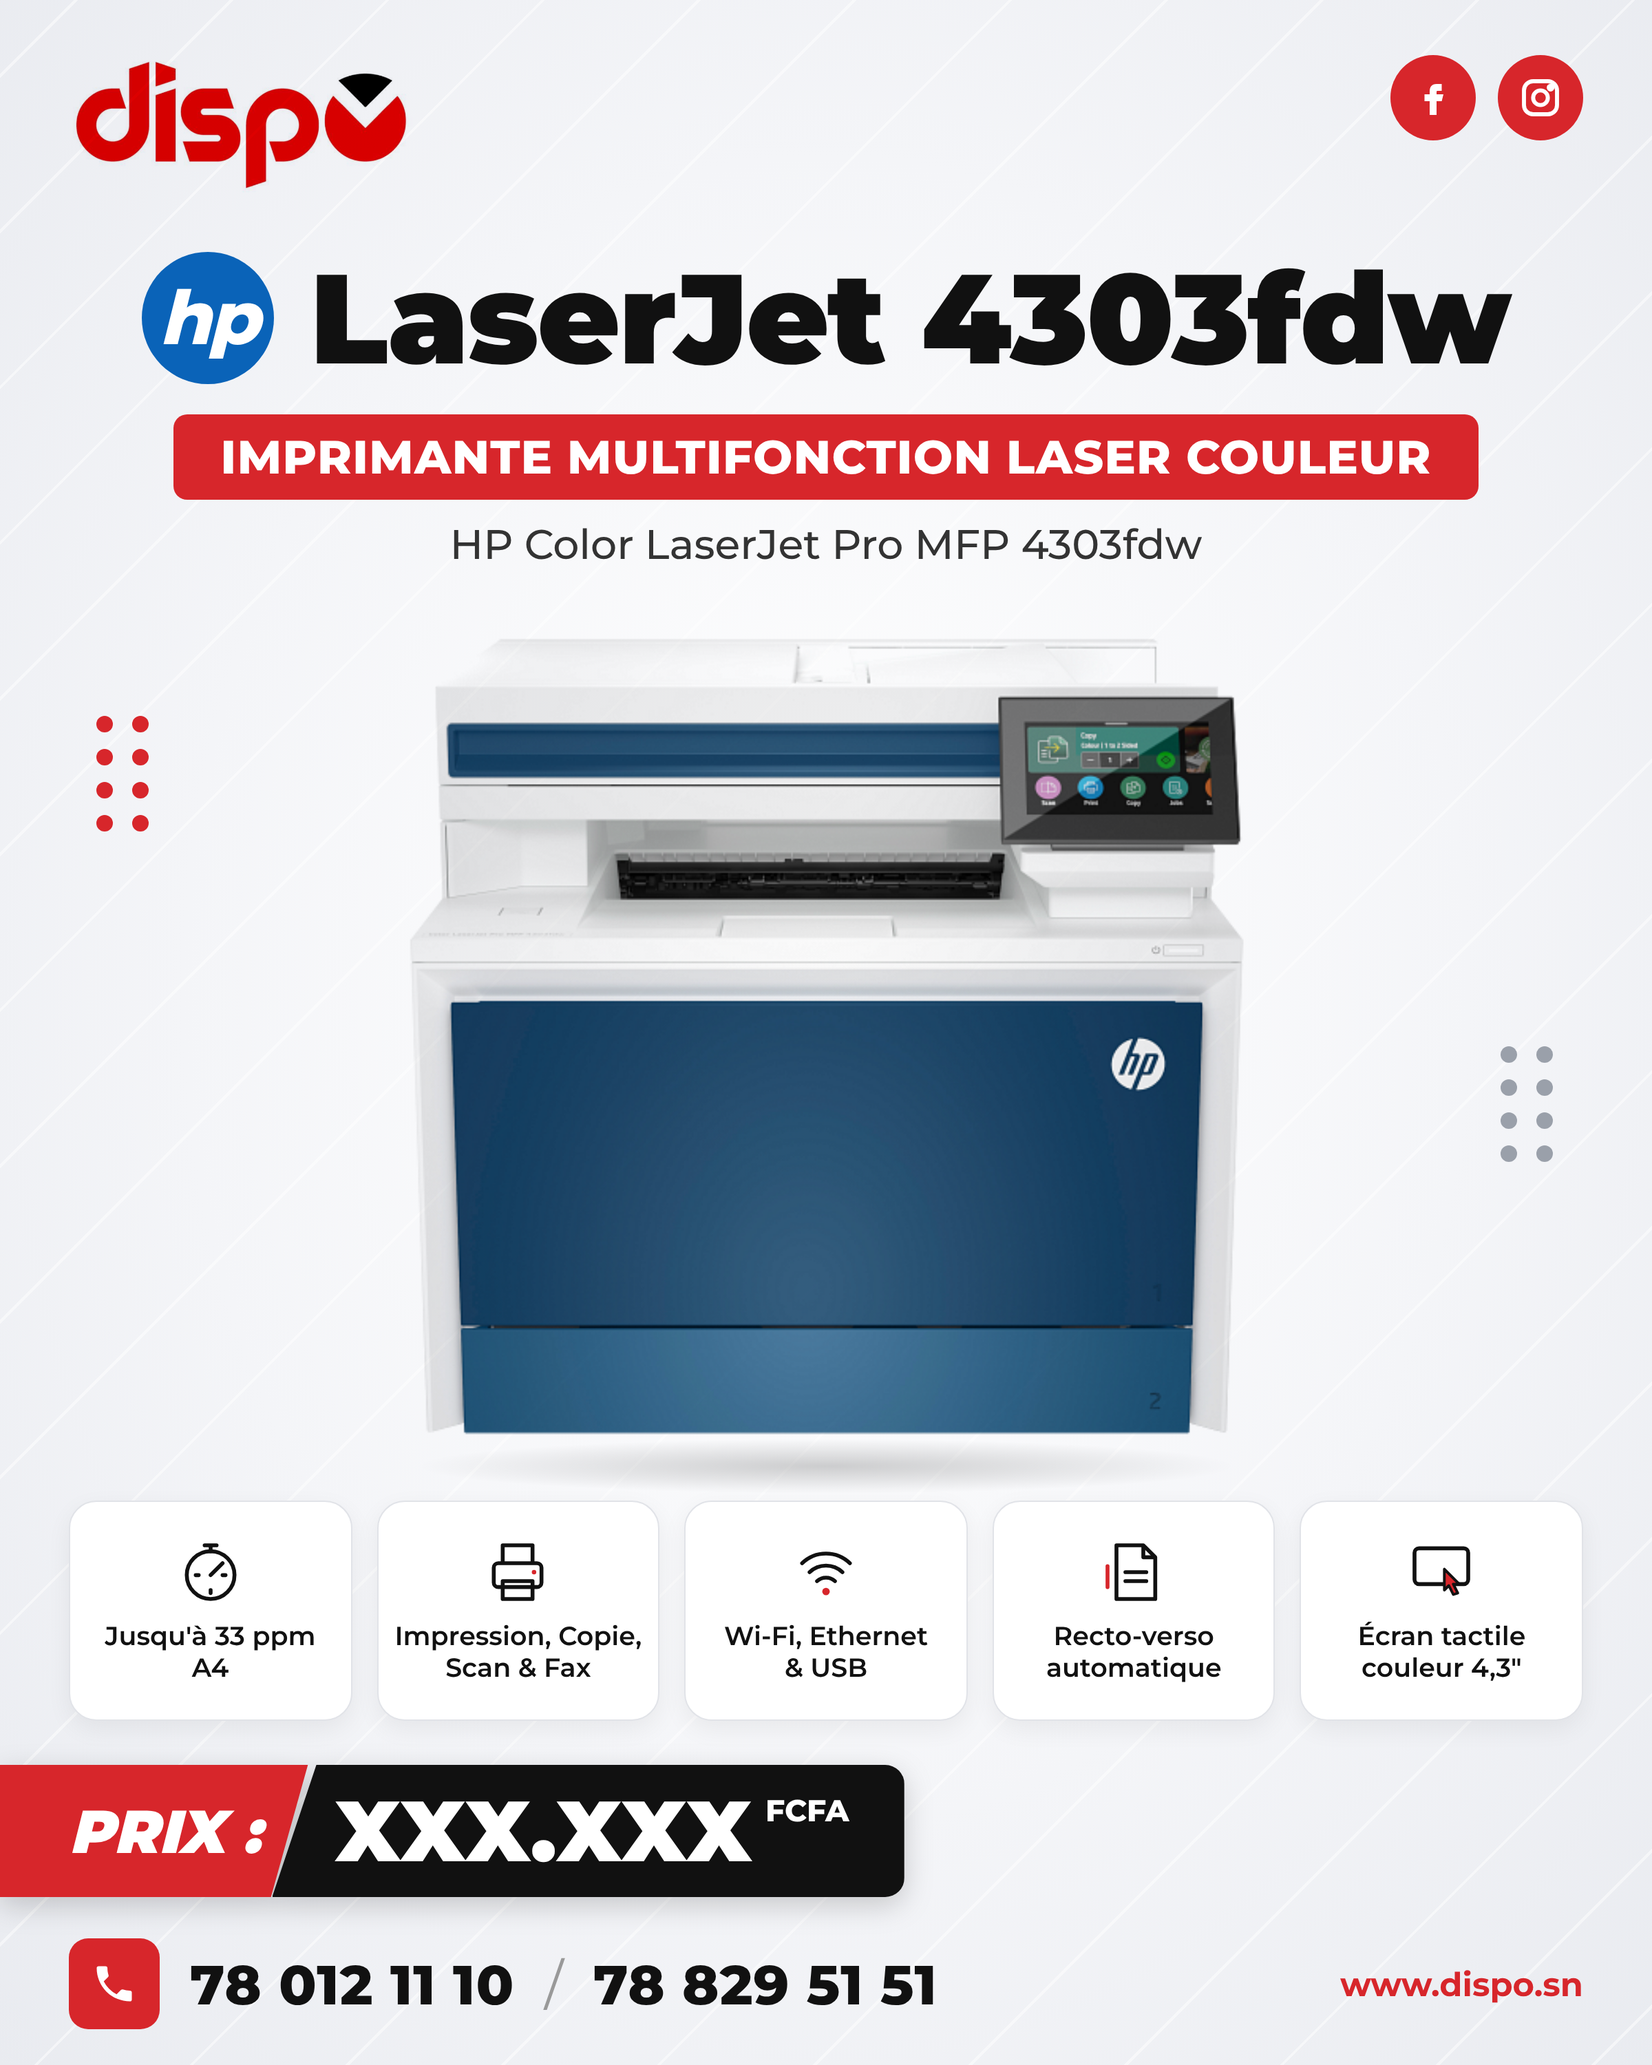
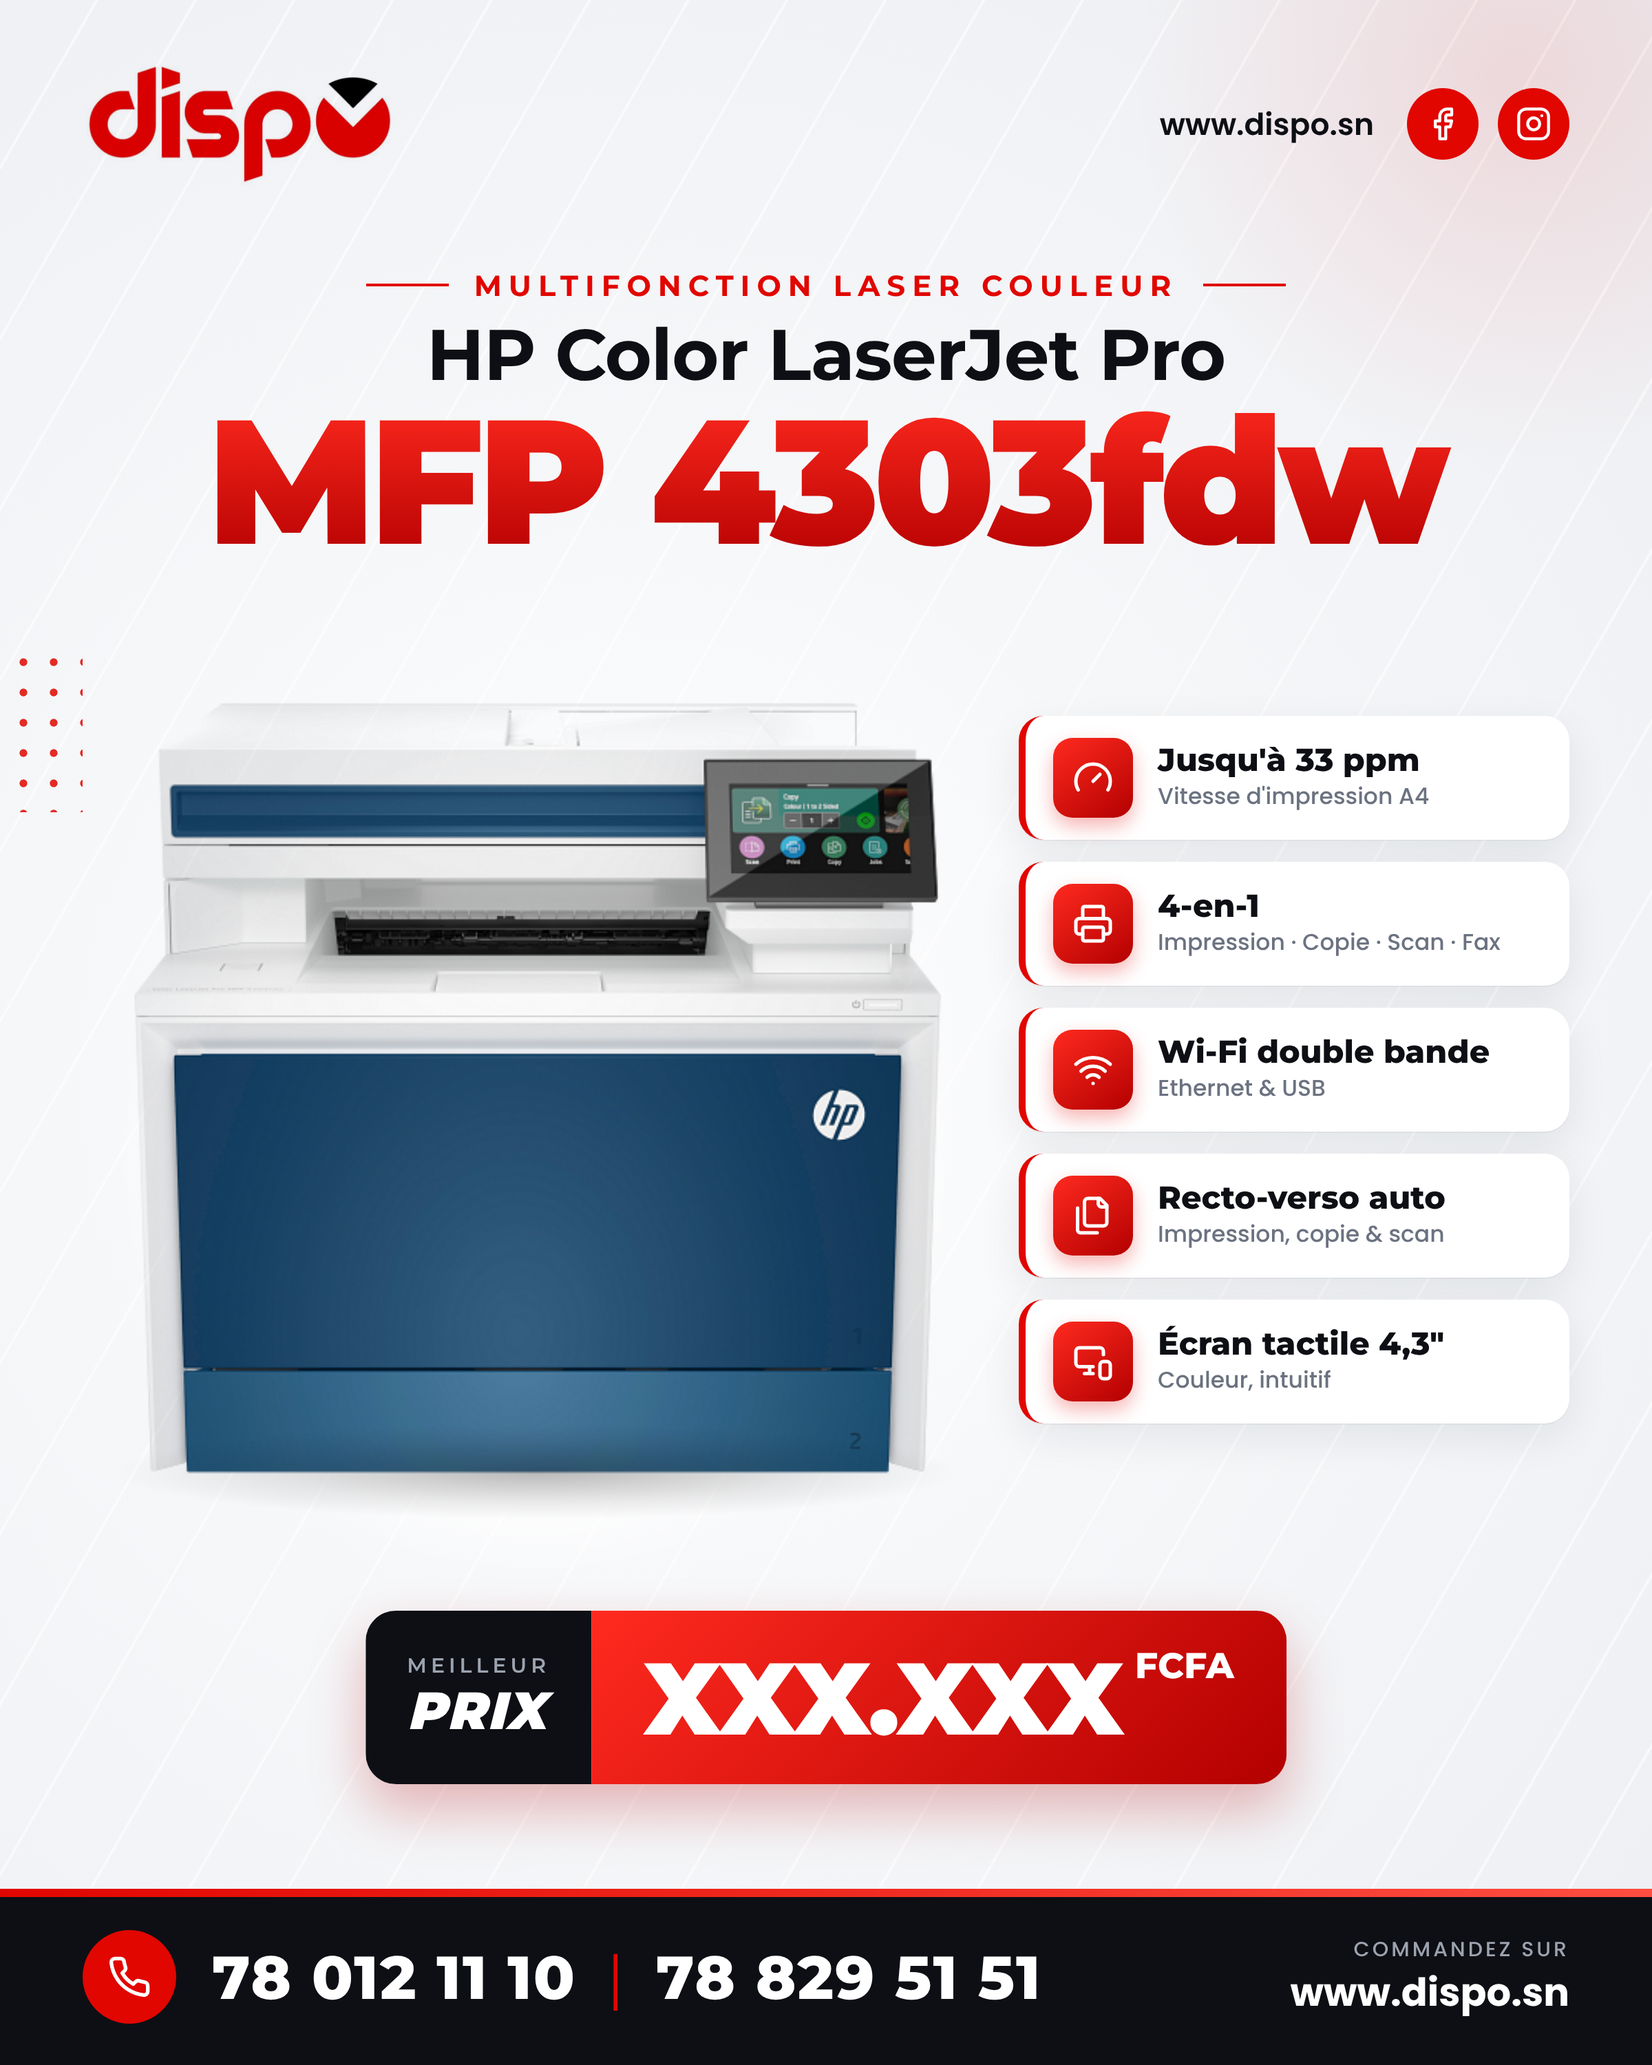
Refonte de l'affiche HP 4303fdw : mise en page plus professionnelle
Claude-Session: https://claude.ai/code/session_01PJ2U3YUwWxyPvPVHwX2tZP

diff --git a/affiches/hp-4303fdw/affiche.html b/affiches/hp-4303fdw/affiche.html
@@ -1,80 +1,111 @@
 <!doctype html>
 <html lang="fr"><head><meta charset="utf-8">
-<link href="https://fonts.googleapis.com/css2?family=Montserrat:wght@400;500;600;700;800;900&display=swap" rel="stylesheet">
+<link href="https://fonts.googleapis.com/css2?family=Montserrat:wght@400;500;600;700;800;900&family=Poppins:wght@300;400;500;600;700;800&display=swap" rel="stylesheet">
+<script src="https://unpkg.com/lucide@0.460.0/dist/umd/lucide.min.js"></script>
 <style>
+:root{--red:#e10600;--red2:#b30000;--ink:#0d0f14;--grey:#6b7280}
 *{box-sizing:border-box;margin:0;padding:0}
-body{width:1200px;height:1500px;font-family:Montserrat,sans-serif;color:#111;overflow:hidden}
-.poster{position:relative;width:1200px;height:1500px;background:
- radial-gradient(ellipse at 50% 48%,#fff 0%,#f4f5f8 55%,#e9ebf0 100%);overflow:hidden}
-.waves{position:absolute;inset:0;opacity:.55;background:
- repeating-linear-gradient(135deg,transparent 0 38px,rgba(255,255,255,.9) 38px 40px,transparent 40px 80px)}
-.top{position:absolute;top:40px;left:50px;right:50px;display:flex;justify-content:space-between;align-items:flex-start}
-.logo{width:250px;mix-blend-mode:multiply}
-.social{display:flex;gap:16px}
-.social span{width:62px;height:62px;border-radius:50%;background:#d7262b;display:flex;align-items:center;justify-content:center}
-.title{position:absolute;top:175px;width:100%;text-align:center}
-.brand{display:inline-flex;align-items:center;gap:26px}
-.hp{width:96px;height:96px;border-radius:50%;background:#0a63b8;color:#fff;font-weight:800;font-style:italic;font-size:54px;display:flex;align-items:center;justify-content:center;letter-spacing:-2px}
-.model{font-size:92px;font-weight:900;letter-spacing:-1px}
-.badge{display:inline-block;margin-top:14px;background:#d7262b;color:#fff;font-weight:800;font-size:34px;padding:10px 34px;border-radius:10px;letter-spacing:.5px}
-.sub{margin-top:14px;font-size:30px;font-weight:500;color:#333}
-.product{position:absolute;top:455px;left:50%;transform:translateX(-50%);width:620px;mix-blend-mode:multiply}
-.shadow{position:absolute;top:1045px;left:50%;transform:translateX(-50%);width:600px;height:40px;border-radius:50%;background:radial-gradient(ellipse,rgba(0,0,0,.18),transparent 70%)}
-.dots{position:absolute;display:grid;grid-template-columns:repeat(2,14px);gap:12px}
-.dots i{width:12px;height:12px;border-radius:50%;background:#d7262b}
-.dots.g i{background:#9aa0aa}
-.tiles{position:absolute;top:1090px;left:50px;right:50px;display:flex;gap:18px}
-.tile{flex:1;height:160px;background:#fff;border:1.5px solid #e1e3e8;border-radius:20px;box-shadow:0 6px 18px rgba(0,0,0,.06);display:flex;flex-direction:column;align-items:center;justify-content:center;text-align:center;gap:10px;font-size:19px;font-weight:600;line-height:1.2}
-.tile svg{width:52px;height:52px}
-.price{position:absolute;top:1282px;left:0;display:flex;align-items:stretch;height:96px;filter:drop-shadow(0 6px 10px rgba(0,0,0,.18))}
-.price .l{background:#d7262b;color:#fff;font-weight:900;font-style:italic;font-size:44px;padding:0 34px 0 50px;display:flex;align-items:center;clip-path:polygon(0 0,100% 0,88% 100%,0 100%)}
-.price .r{background:#111;color:#fff;margin-left:-26px;padding:0 40px 0 46px;display:flex;align-items:center;gap:10px;border-radius:0 14px 14px 0;clip-path:polygon(7% 0,100% 0,100% 100%,0 100%)}
-.price .r b{font-size:62px;font-weight:900}
-.price .r small{font-size:22px;font-weight:800;align-self:flex-start;margin-top:20px}
-.guar{position:absolute;top:1290px;right:50px;text-align:right;font-weight:700;font-size:22px;color:#333;line-height:1.5}
-.guar em{font-style:normal;color:#d7262b}
-.contact{position:absolute;bottom:26px;left:50px;right:50px;display:flex;align-items:center;gap:22px}
-.contact .ic{width:66px;height:66px;background:#d7262b;border-radius:14px;display:flex;align-items:center;justify-content:center}
-.contact .num{font-size:40px;font-weight:800;letter-spacing:.5px}
-.contact .sep{font-size:40px;color:#999}
-.contact .web{margin-left:auto;font-size:24px;font-weight:700;color:#d7262b}
+body{width:1200px;height:1500px;font-family:Poppins,sans-serif;color:var(--ink);overflow:hidden;background:#fff}
+.poster{position:relative;width:1200px;height:1500px;overflow:hidden;
+ background:radial-gradient(circle at 38% 52%,#ffffff 0%,#f6f7f9 40%,#eceef2 100%)}
+.tex{position:absolute;inset:0;opacity:.6;background:repeating-linear-gradient(120deg,rgba(255,255,255,0) 0 60px,rgba(255,255,255,.9) 60px 62px)}
+.shape1{position:absolute;right:-180px;top:-220px;width:560px;height:560px;border-radius:50%;background:radial-gradient(circle,rgba(225,6,0,.10),rgba(225,6,0,0) 70%)}
+.dotgrid{position:absolute;width:150px;height:150px;background-image:radial-gradient(var(--red) 2.6px,transparent 3px);background-size:22px 22px;opacity:.85}
+
+header{position:absolute;top:44px;left:60px;right:60px;display:flex;justify-content:space-between;align-items:center}
+header img{height:92px;mix-blend-mode:multiply}
+.hright{display:flex;align-items:center;gap:14px}
+.hright .site{font-weight:600;font-size:22px;margin-right:10px}
+.circ{width:52px;height:52px;border-radius:50%;background:var(--red);display:flex;align-items:center;justify-content:center;color:#fff}
+.circ svg{width:26px;height:26px}
+
+.head{position:absolute;top:190px;left:0;right:0;text-align:center}
+.kicker{display:inline-flex;align-items:center;gap:18px;font-family:Montserrat;font-weight:700;font-size:21px;letter-spacing:5px;color:var(--red)}
+.kicker:before,.kicker:after{content:"";width:60px;height:2px;background:var(--red)}
+.l1{margin-top:12px;font-family:Montserrat;font-weight:700;font-size:52px;letter-spacing:-.5px;line-height:1}
+.l2{font-family:Montserrat;font-weight:900;font-size:128px;letter-spacing:-4px;line-height:1.02;
+ background:linear-gradient(180deg,#ff2a1f,#b30000);-webkit-background-clip:text;color:transparent}
+
+.stage{position:absolute;top:500px;left:40px;width:700px;height:620px}
+.pedestal{position:absolute;bottom:16px;left:50%;transform:translateX(-50%);width:620px;height:70px;border-radius:50%;
+ background:radial-gradient(ellipse at center,rgba(0,0,0,.28) 0%,rgba(0,0,0,.08) 45%,transparent 70%)}
+.ring{position:absolute;left:50%;top:40px;transform:translateX(-50%);width:600px;height:600px;border-radius:50%;
+ background:radial-gradient(circle,#fff 0%,#fff 55%,rgba(255,255,255,0) 72%)}
+.stage img{position:absolute;bottom:40px;left:50%;transform:translateX(-50%);width:600px;mix-blend-mode:multiply}
+
+.specs{position:absolute;top:520px;right:60px;width:400px;display:flex;flex-direction:column;gap:16px}
+.spec{display:flex;align-items:center;gap:18px;background:#fff;border-radius:18px;padding:16px 20px;
+ box-shadow:0 10px 30px rgba(16,24,40,.08),0 1px 0 rgba(16,24,40,.04);border-left:5px solid var(--red)}
+.spec .ic{flex:none;width:58px;height:58px;border-radius:14px;background:linear-gradient(145deg,#ff2a1f,#b30000);color:#fff;display:flex;align-items:center;justify-content:center;box-shadow:0 6px 14px rgba(225,6,0,.3)}
+.spec .ic svg{width:30px;height:30px;stroke-width:2}
+.spec b{display:block;font-family:Montserrat;font-weight:800;font-size:23px;line-height:1.15}
+.spec span{font-size:16.5px;color:var(--grey);font-weight:500}
+
+.band{position:absolute;left:0;right:0;top:1170px;height:150px}
+.price{position:absolute;left:50%;transform:translateX(-50%);top:0;height:126px;display:flex;align-items:stretch;border-radius:22px;overflow:hidden;box-shadow:0 18px 40px rgba(179,0,0,.28)}
+.price .lab{background:var(--ink);color:#fff;display:flex;flex-direction:column;justify-content:center;padding:0 30px;font-family:Montserrat}
+.price .lab small{font-size:15px;letter-spacing:3px;color:#9ca3af;font-weight:600}
+.price .lab strong{font-size:38px;font-weight:900;font-style:italic;letter-spacing:1px}
+.price .val{background:linear-gradient(135deg,#ff2a1f,#b30000);color:#fff;display:flex;align-items:center;padding:0 38px;gap:10px;font-family:Montserrat}
+.price .val b{font-size:74px;font-weight:900;letter-spacing:-2px}
+.price .val i{font-style:normal;font-size:26px;font-weight:800;align-self:flex-start;margin-top:24px}
+
+footer{position:absolute;left:0;right:0;bottom:0;height:128px;background:var(--ink);display:flex;align-items:center;padding:0 60px;gap:26px}
+footer:before{content:"";position:absolute;left:0;right:0;top:0;height:6px;background:linear-gradient(90deg,var(--red),#ff4d40)}
+.ph{width:68px;height:68px;border-radius:50%;background:var(--red);display:flex;align-items:center;justify-content:center;color:#fff}
+.ph svg{width:32px;height:32px}
+.nums{color:#fff;font-family:Montserrat;font-weight:800;font-size:44px;letter-spacing:1px;display:flex;gap:22px;align-items:center}
+.nums em{font-style:normal;color:var(--red);font-weight:400}
+.fsite{margin-left:auto;text-align:right;color:#fff}
+.fsite small{display:block;font-size:15px;color:#9ca3af;letter-spacing:2px;font-weight:500}
+.fsite b{font-size:28px;font-weight:700}
 </style></head><body>
 <div class="poster">
- <div class="waves"></div>
- <div class="top">
-  <div><img class="logo" src="logo-dispo.png"></div>
-  <div class="social">
-   <span><svg width="30" height="30" viewBox="0 0 24 24" fill="#fff"><path d="M14 8h3V4h-3c-2.8 0-4 1.8-4 4.3V10H7v4h3v8h4v-8h3l1-4h-4V8.6c0-.4.2-.6.6-.6z"/></svg></span>
-   <span><svg width="32" height="32" viewBox="0 0 24 24" fill="none" stroke="#fff" stroke-width="2.2"><rect x="3" y="3" width="18" height="18" rx="5"/><circle cx="12" cy="12" r="4"/><circle cx="17.5" cy="6.5" r="1" fill="#fff"/></svg></span>
+ <div class="tex"></div>
+ <div class="shape1"></div>
+ <div class="dotgrid" style="left:-60px;top:470px;width:120px;height:120px"></div>
+
+ <header>
+  <img src="logo-dispo.png" alt="Dispo">
+  <div class="hright">
+   <div class="site">www.dispo.sn</div>
+   <div class="circ"><i data-lucide="facebook"></i></div>
+   <div class="circ"><i data-lucide="instagram"></i></div>
+  </div>
+ </header>
+
+ <div class="head">
+  <div class="kicker">MULTIFONCTION LASER COULEUR</div>
+  <div class="l1">HP Color LaserJet Pro</div>
+  <div class="l2">MFP 4303fdw</div>
+ </div>
+
+ <div class="stage">
+  <div class="ring"></div>
+  <div class="pedestal"></div>
+  <img src="hp-4303fdw.png" alt="HP 4303fdw">
+ </div>
+
+ <div class="specs">
+  <div class="spec"><div class="ic"><i data-lucide="gauge"></i></div><div><b>Jusqu'à 33 ppm</b><span>Vitesse d'impression A4</span></div></div>
+  <div class="spec"><div class="ic"><i data-lucide="printer"></i></div><div><b>4-en-1</b><span>Impression · Copie · Scan · Fax</span></div></div>
+  <div class="spec"><div class="ic"><i data-lucide="wifi"></i></div><div><b>Wi-Fi double bande</b><span>Ethernet & USB</span></div></div>
+  <div class="spec"><div class="ic"><i data-lucide="files"></i></div><div><b>Recto-verso auto</b><span>Impression, copie & scan</span></div></div>
+  <div class="spec"><div class="ic"><i data-lucide="monitor-smartphone"></i></div><div><b>Écran tactile 4,3"</b><span>Couleur, intuitif</span></div></div>
+ </div>
+
+ <div class="band">
+  <div class="price">
+   <div class="lab"><small>MEILLEUR</small><strong>PRIX</strong></div>
+   <div class="val"><b>XXX.XXX</b><i>FCFA</i></div>
   </div>
  </div>
 
- <div class="title">
-  <div class="brand"><div class="hp">hp</div><div class="model">LaserJet 4303fdw</div></div><br>
-  <div class="badge">IMPRIMANTE MULTIFONCTION LASER COULEUR</div>
-  <div class="sub">HP Color LaserJet Pro MFP 4303fdw</div>
- </div>
-
- <div class="dots" style="top:520px;left:70px"><i></i><i></i><i></i><i></i><i></i><i></i><i></i><i></i></div>
- <div class="dots g" style="top:760px;right:70px"><i></i><i></i><i></i><i></i><i></i><i></i><i></i><i></i></div>
-
- <div class="shadow"></div>
- <img class="product" src="hp-4303fdw.png">
-
- <div class="tiles">
-  <div class="tile"><svg viewBox="0 0 48 48" fill="none" stroke="#111" stroke-width="2.6" stroke-linecap="round" stroke-linejoin="round"><circle cx="24" cy="26" r="16"/><path d="M24 26l8-8M24 6v4M20 6h8"/><path d="M14 26h2M32 26h2M24 36v2"/></svg>Jusqu'à 33 ppm<br>A4</div>
-  <div class="tile"><svg viewBox="0 0 48 48" fill="none" stroke="#111" stroke-width="2.6" stroke-linejoin="round"><rect x="8" y="18" width="32" height="16" rx="3"/><path d="M14 18V6h20v12M14 30h20v12H14z"/><circle cx="35" cy="24" r="1.5" fill="#d7262b" stroke="none"/></svg>Impression, Copie,<br>Scan &amp; Fax</div>
-  <div class="tile"><svg viewBox="0 0 48 48" fill="none" stroke="#111" stroke-width="2.6" stroke-linecap="round"><path d="M8 18a23 23 0 0 1 32 0M13 24a16 16 0 0 1 22 0M18 30a9 9 0 0 1 12 0"/><circle cx="24" cy="37" r="2.5" fill="#d7262b" stroke="none"/></svg>Wi-Fi, Ethernet<br>&amp; USB</div>
-  <div class="tile"><svg viewBox="0 0 48 48" fill="none" stroke="#111" stroke-width="2.6" stroke-linejoin="round"><path d="M12 6h18l8 8v28H12z"/><path d="M30 6v8h8"/><path d="M18 24h14M18 30h14" stroke-linecap="round"/><path d="M6 20v14" stroke="#d7262b" stroke-linecap="round"/></svg>Recto-verso<br>automatique</div>
-  <div class="tile"><svg viewBox="0 0 48 48" fill="none" stroke="#111" stroke-width="2.6" stroke-linejoin="round"><rect x="6" y="8" width="36" height="24" rx="3"/><path d="M26 22v14l3-3 3 6 3-1-3-6h4z" fill="#d7262b" stroke="#111" stroke-width="1.8"/></svg>Écran tactile<br>couleur 4,3"</div>
- </div>
-
- <div class="price"><div class="l">PRIX :</div><div class="r"><b>XXX.XXX</b><small>FCFA</small></div></div>
-
- <div class="contact">
-  <div class="ic"><svg width="34" height="34" viewBox="0 0 24 24" fill="#fff"><path d="M6.6 10.8a15.1 15.1 0 0 0 6.6 6.6l2.2-2.2a1 1 0 0 1 1-.25 11.4 11.4 0 0 0 3.6.57 1 1 0 0 1 1 1V20a1 1 0 0 1-1 1A17 17 0 0 1 3 4a1 1 0 0 1 1-1h3.5a1 1 0 0 1 1 1c0 1.25.2 2.45.57 3.57a1 1 0 0 1-.25 1z"/></svg></div>
-  <div class="num">78 012 11 10</div><div class="sep">/</div><div class="num">78 829 51 51</div>
-  <div class="web">www.dispo.sn</div>
- </div>
+ <footer>
+  <div class="ph"><i data-lucide="phone"></i></div>
+  <div class="nums">78 012 11 10 <em>|</em> 78 829 51 51</div>
+  <div class="fsite"><small>COMMANDEZ SUR</small><b>www.dispo.sn</b></div>
+ </footer>
 </div>
+<script>lucide.createIcons();</script>
 </body></html>
